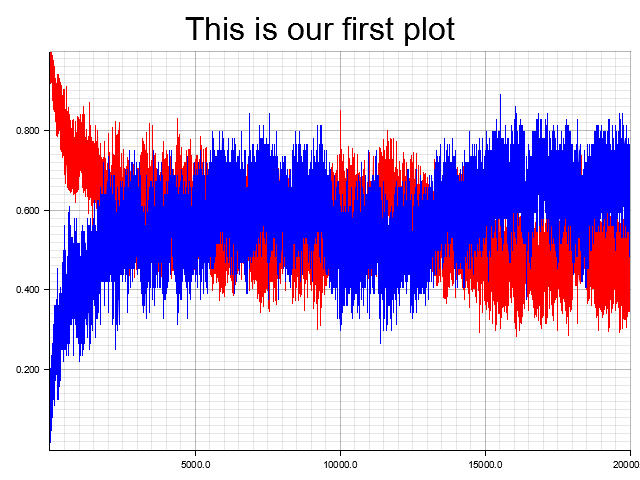
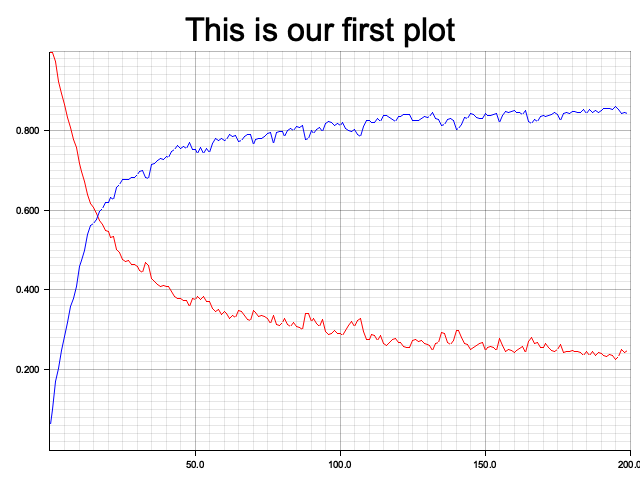
upgrade mnist example

diff --git a/examples/mnist.rs b/examples/mnist.rs
@@ -128,8 +128,13 @@ fn plot_data(losses: Vec<f32>, accuracies: Vec<f32>) -> Result<(), Box<dyn Error
     Ok(())
 }
 
+fn get_rolling_average(data: &Vec<f32>, size: usize) -> f32 {
+    let slice_start = (data.len() as i32 - size as i32).max(0) as usize;
+    data.as_slice()[slice_start..].iter().sum::<f32>() / (size.min(data.len()) as f32)
+}
+
 fn main() {
-    const SAMPLE_SIZE: usize = 128;
+    const SAMPLE_SIZE: usize = 16;
 
     let mut image_data = read_binary_file("data/mnist/train-images-idx3-ubyte");
     image_data.drain(0..16);
@@ -149,7 +154,7 @@ fn main() {
     let mut net = linear(&input_ph, in_size, 16).sigmoid();
     net = linear(&net, 16, out_size).sigmoid();
 
-    let mut optim = RunningOptimizer::new(SGDOptimizerRunner::new(0.01));
+    let mut optim = RunningOptimizer::new(SGDOptimizerRunner::new(0.002));
     net.add_to_optimizer(&mut optim);
 
     let mut loss_f = (label_ph.clone() - net.clone()).pow(2.0).sum();
@@ -157,8 +162,14 @@ fn main() {
     let mut losses: Vec<f32> = Vec::new();
     let mut accuracies: Vec<f32> = Vec::new();
 
+    let mut average_losses: Vec<f32> = Vec::new();
+    let mut average_accuracies: Vec<f32> = Vec::new();
+
+
+    const DISPLAY_ROLLING_AVERAGE: usize = 1000;
+
     let mut rng = thread_rng();
-    for _ in 0..20000 {
+    for i in 0..200000 {
         let mut loss_sum: f32 = 0.0;
 
         let mut n_accurate: u32 = 0;
@@ -185,9 +196,17 @@ fn main() {
         losses.push(loss_sum / SAMPLE_SIZE as f32);
         accuracies.push(n_accurate as f32 / SAMPLE_SIZE as f32);
 
-        println!("Accuracy: {}", accuracies.last().unwrap());
-        println!("Loss: {}\n", losses.last().unwrap());
+        if i % DISPLAY_ROLLING_AVERAGE == 0 {
+            let average_accuracy = get_rolling_average(&accuracies, DISPLAY_ROLLING_AVERAGE);
+            let average_loss = get_rolling_average(&losses, DISPLAY_ROLLING_AVERAGE);
+
+            average_accuracies.push(average_accuracy);
+            average_losses.push(average_loss);
+
+            println!("Accuracy: {}", average_accuracy);
+            println!("Loss: {}\n", average_loss);
+        }
     }
 
-    plot_data(losses, accuracies).unwrap();
+    plot_data(average_losses, average_accuracies).unwrap();
 }
